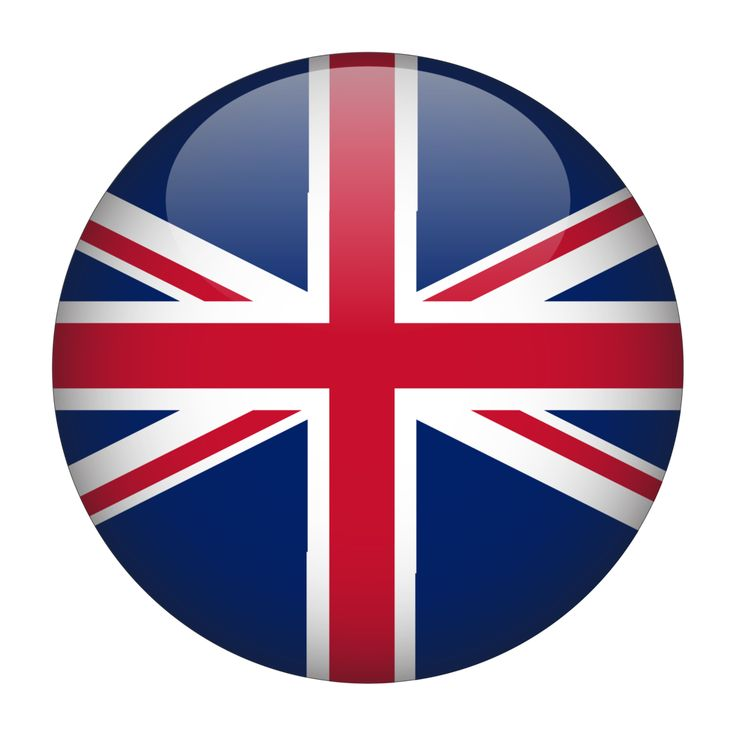
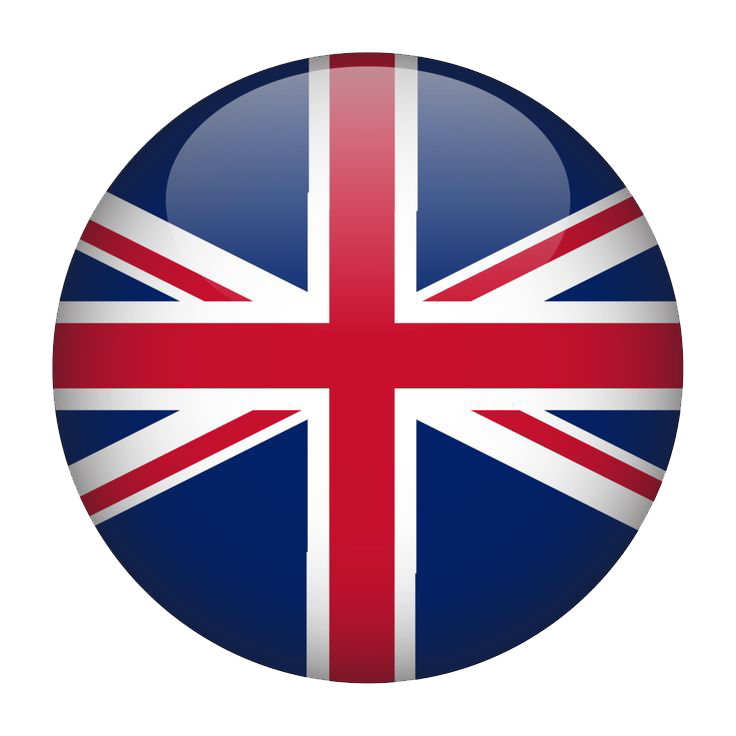
miercoles 10:35 arreglos visuales en el home

diff --git a/src/components/NavBar.vue b/src/components/NavBar.vue
@@ -2,7 +2,7 @@
   <v-app>
     <div class="Barra">
       <div class="logo-titulo">
-        <img class="logo" src="../assets/img/Logo/logo3.jpg" />
+        <img class="logo" src="../assets/img/Logo/logo.jpg" />
         <h1 class="titulo">{{$t('home.titulo')}}</h1>
 
         <!-- Aquí agregamos el menú -->
@@ -88,7 +88,7 @@ watch(currentLocale, (newLocale) => {
 })
 
 function getFlagIcon(locale) {
-  return locale === 'es' ? '/Flags/spain.png' : '/Flags/uk.png'
+  return locale === 'es' ? '/flags/spain.png' : '/flags/uk.png'
 }
 
 // Métodos
@@ -138,8 +138,8 @@ function opcion14() {
 
 <style scoped>
 .usuario{
-  width: 3vw !important;
-  height: 3vw !important;
+  width: 2vw !important;
+  height: 2vw !important;
   margin-bottom: 1vw;
   margin-right: 2vw;
   color: white;
@@ -149,8 +149,8 @@ function opcion14() {
   width: 35px; height: 35px
 }
 .puntitos-3 {
-  width: 3vw !important;
-  height: 3vw !important;
+  width: 2vw !important;
+  height: 2vw !important;
   margin-bottom: 1vw;
   margin-right: 2vw;
   color: white;
@@ -183,8 +183,8 @@ function opcion14() {
 
 .logo {
   border-radius: 100%;
-  width: 3vw;
-  height: 3vw;
+  width: 2.5vw;
+  height: 2.5vw;
   margin-left: 1vw;
   margin-bottom: 1vw;
 }

diff --git a/src/components/Catalogos.vue b/src/components/Catalogos.vue
@@ -121,8 +121,8 @@ const handleClick = (image) => {
 }
 
 .image-wrapper {
-  width: 8vw;
-  height: 100%;
+  width: 7vw;
+  height: 9vw;
   border-radius: 10%;
   border: 2px solid #0056b3;
   background: transparent;
@@ -136,14 +136,14 @@ const handleClick = (image) => {
 }
 
 .image-wrapper img {
-  width: 6vw;
+  width: 5vw;
  /* width: 3vw;*/
   height: auto;
   border-radius: 5%;
   }
 
 .image-label {
-  font-size: 75%;
+  font-size: 12px;
   margin-top: 1%;
   font-weight: bold;
   color: #333;

diff --git a/src/components/Login.vue b/src/components/Login.vue
@@ -102,7 +102,7 @@ watch(currentLocale, (newLocale) => {
 
 // Función para obtener la ruta de la bandera según idioma
 function getFlagIcon(locale) {
-    return locale === 'es' ? '/Flags/spain.png' : '/Flags/uk.png'
+    return locale === 'es' ? '/flags/spain.png' : '/flags/uk.png'
     }
 
 // Funciones para cambiar idioma al español o inglés

diff --git a/src/components/Carrusel2.vue b/src/components/Carrusel2.vue
@@ -132,7 +132,7 @@ const handleClick = (image) => {
 }
 
 .image-wrapper2 img {
-  width: 7vw;
+  width: 5vw;
   height: auto;
   border-radius: 1vw;
 }
